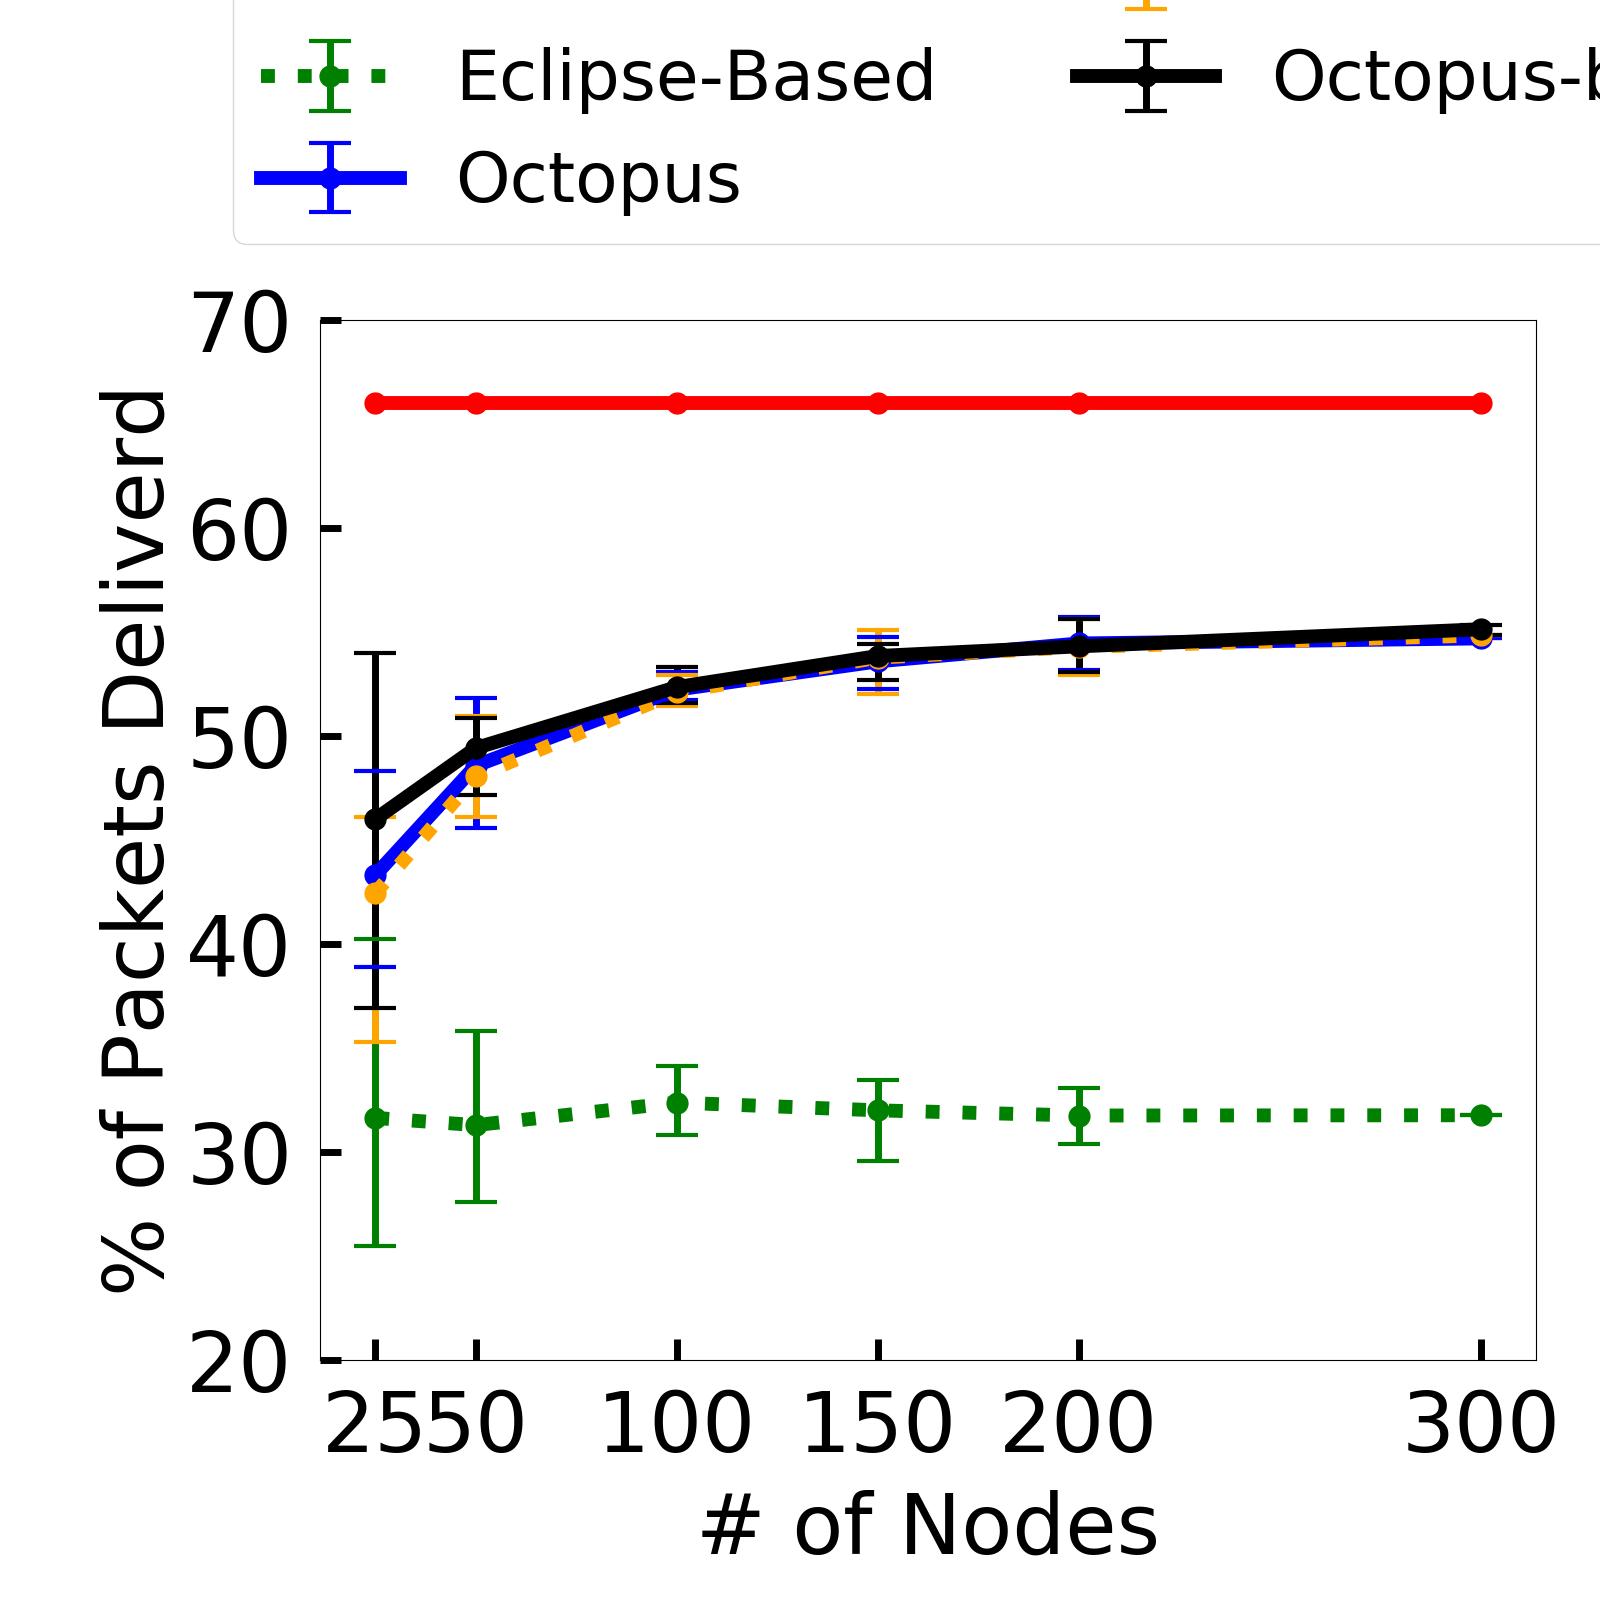
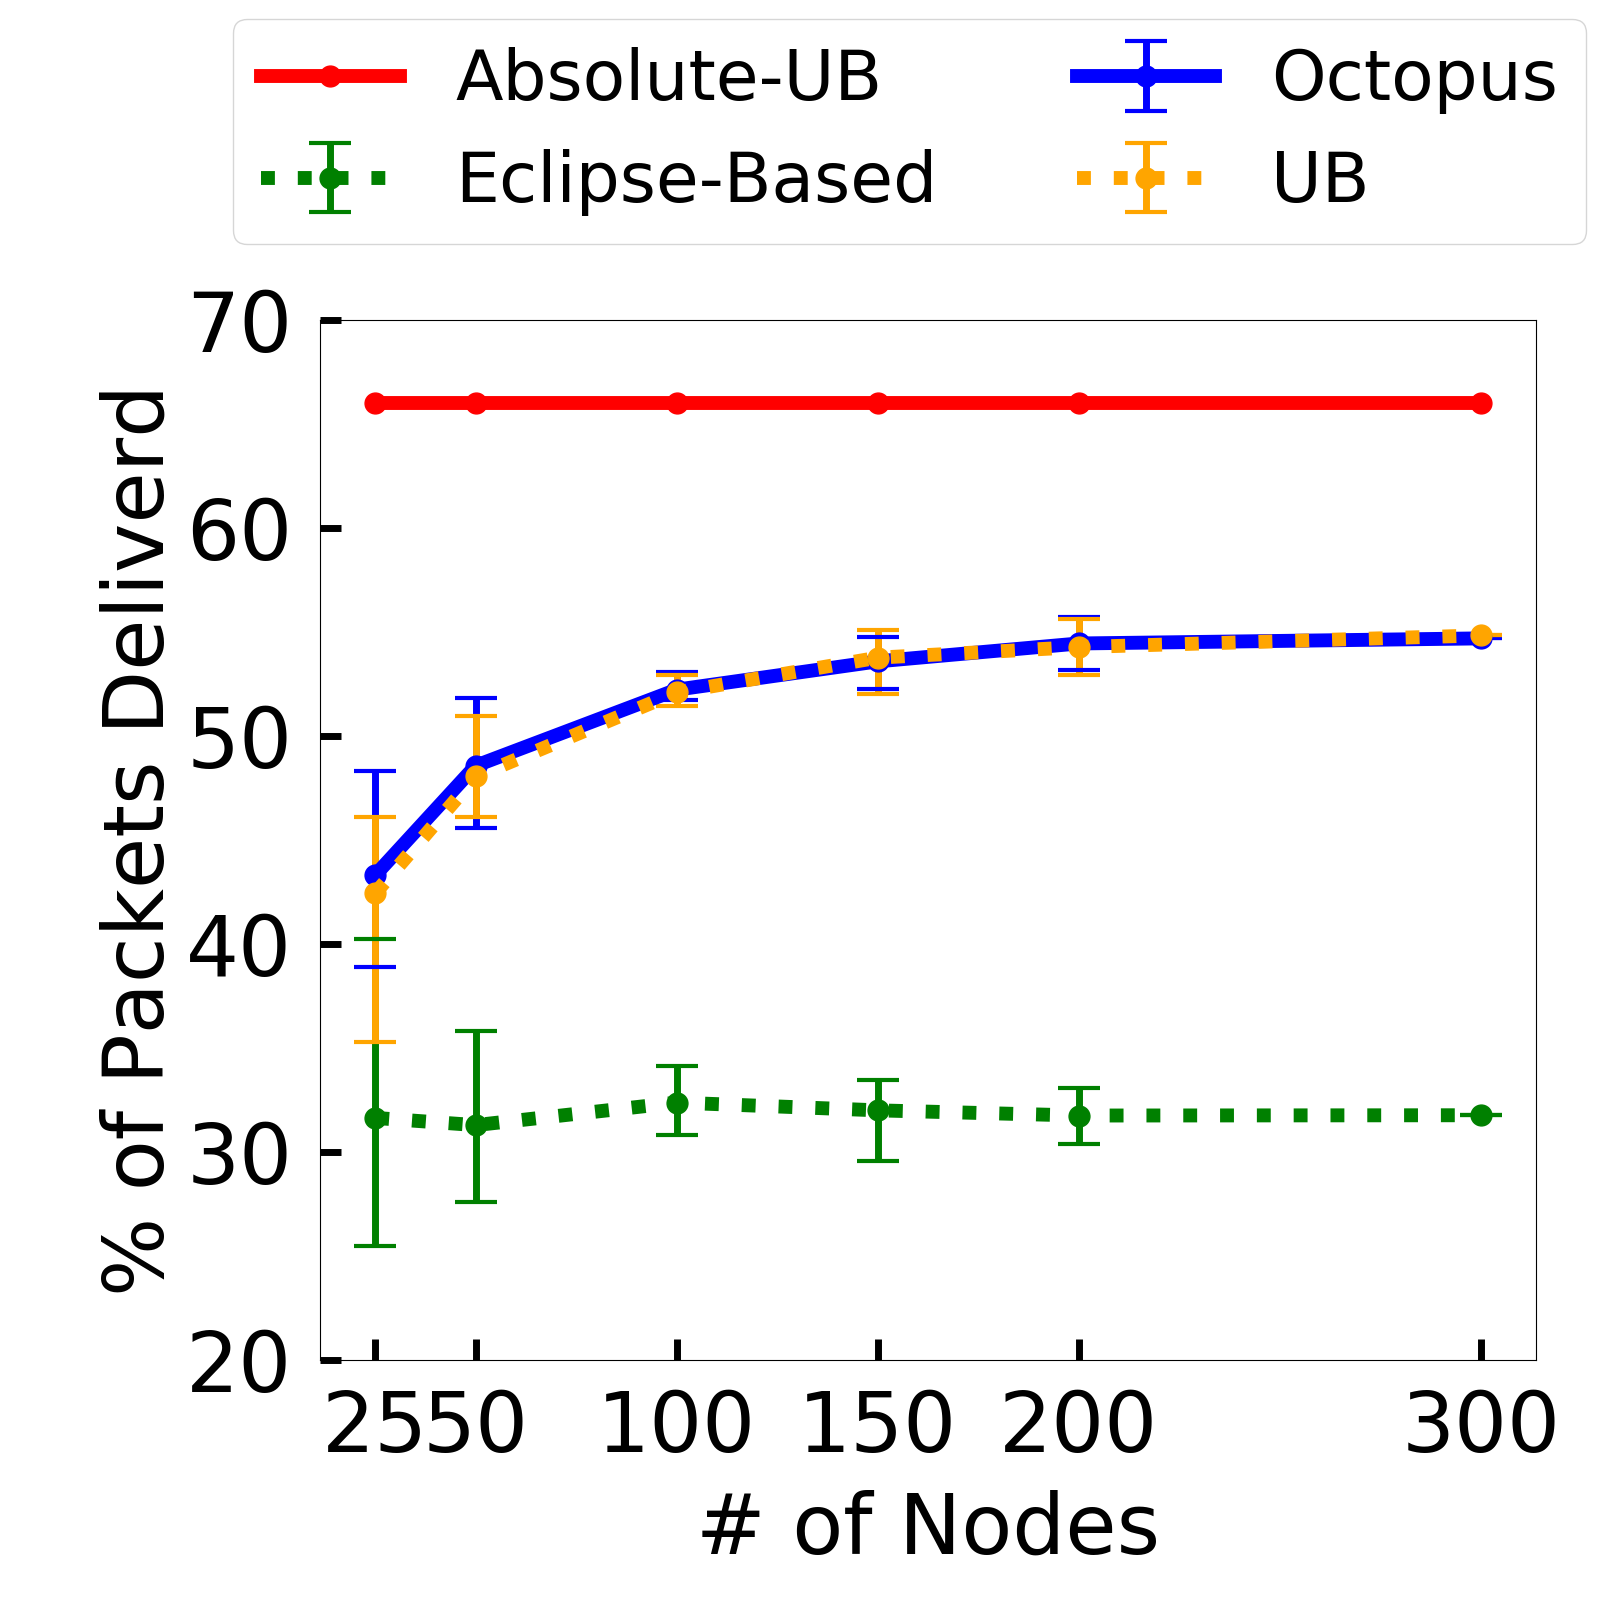
add a new plot

diff --git a/plots.py b/plots.py
@@ -48,10 +48,10 @@ def y_fmt(tick_val, pos):
 
 # _MARKER = ['o',       'h',        's',         '^',             'D',       'P']
 
-METHOD  = ['Octopus', 'Octopus+', 'Octopus-e', 'Octopus-b', 'Eclipse-Based', 'UB',      'Absolute-UB']
-_COLOR  = ['b',       'c',        'gray',      'k',         'g',             'orange',  'r']
-_MARKER = ['o',       'o',        'o',         'o',         'o',             'o',       'o']
-_LINE   = ['-',       ':',        ':',         '-',         ':',             ':',       '-']
+METHOD  = ['Octopus-Random', 'Octopus', 'Octopus+', 'Octopus-e', 'Octopus-B', 'Eclipse-Based', 'UB',      'Absolute-UB']
+_COLOR  = ['b',              'b',       'c',        'gray',      'k',         'g',             'orange',  'r']
+_MARKER = ['o',              'o',       'o',        'o',         'o',         'o',             'o',       'o']
+_LINE   = ['-',              '-',       ':',        ':',         ':',         ':',             ':',       '-']
 COLOR   = dict(zip(METHOD, _COLOR))
 MARKER  = dict(zip(METHOD, _MARKER))
 LINE    = dict(zip(METHOD, _LINE))
@@ -157,9 +157,13 @@ def plot_line(table, methods, filename=None, x_label=None, x_log=False, y_label=
 		yticks = list(range(y_min, y_max, 10))
 		plt.yticks(yticks)
 		y_max = 100 if x_label == 'Average # of hops' else 70
-
+	
+	box_to_anchor = (-0.1, 1.04)
+	if 'Octopus-Random' in methods:
+		box_to_anchor = (-0.24, 1.04)
+	
 	plt.ylim([y_min, y_max])
-	plt.legend(bbox_to_anchor=(-0.1, 1.04), loc='lower left', ncol=2, fontsize=50)
+	plt.legend(bbox_to_anchor=box_to_anchor, loc='lower left', ncol=2, fontsize=50)
 	ax.tick_params(direction='in', length=15, width=5)
 	ax.tick_params(pad=20)
 
@@ -179,8 +183,8 @@ def plot1_1(path):
 	filename = '{}/num_nodes.txt'
 	data = runner.readDataFromFile(filename.format(path))
 
-	methods  = ['eclipse'      , 'octopus-r', 'upper-bound', 'octopus-b']
-	methods_ = ['Eclipse-Based', 'Octopus',   'UB',          'Octopus-b']
+	methods  = ['eclipse'      , 'octopus-r', 'upper-bound']
+	methods_ = ['Eclipse-Based', 'Octopus',   'UB']
 	metric   = ['percent_packets_delivered', 'link_utilization']
 	metric_  = ['% of Packets Deliverd',     'Link Utilization (%)']
 
@@ -205,8 +209,8 @@ def plot1_2(path):
 	filename = '{}/reconfig_delta.txt'
 	data = runner.readDataFromFile(filename.format(path))
 
-	methods  = ['eclipse'      , 'octopus-r', 'upper-bound', 'octopus-b']
-	methods_ = ['Eclipse-Based', 'Octopus',   'UB',          'Octopus-b']
+	methods  = ['eclipse'      , 'octopus-r', 'upper-bound']
+	methods_ = ['Eclipse-Based', 'Octopus',   'UB']
 	metric   = ['percent_packets_delivered', 'link_utilization']
 	metric_  = ['% of Packets Deliverd',     'Link Utilization (%)']
 
@@ -231,8 +235,8 @@ def plot1_3(path):
 	filename = '{}/skewness.txt'
 	data = runner.readDataFromFile(filename.format(path))
 
-	methods  = ['eclipse'      , 'octopus-r', 'upper-bound', 'octopus-b']
-	methods_ = ['Eclipse-Based', 'Octopus',   'UB',          'Octopus-b']
+	methods  = ['eclipse'      , 'octopus-r', 'upper-bound']
+	methods_ = ['Eclipse-Based', 'Octopus',   'UB']
 	metric   = ['percent_packets_delivered', 'link_utilization']
 	metric_  = ['% of Packets Deliverd',     'Link Utilization (%)']
 
@@ -256,8 +260,8 @@ def plot1_4(path):
 	filename = '{}/sparsity.txt'
 	data = runner.readDataFromFile(filename.format(path))
 
-	methods  = ['eclipse'      , 'octopus-r', 'upper-bound', 'octopus-b']
-	methods_ = ['Eclipse-Based', 'Octopus',   'UB',          'Octopus-b']
+	methods  = ['eclipse'      , 'octopus-r', 'upper-bound']
+	methods_ = ['Eclipse-Based', 'Octopus',   'UB']
 	metric   = ['percent_packets_delivered', 'link_utilization']
 	metric_  = ['% of Packets Deliverd',     'Link Utilization (%)']
 
@@ -426,8 +430,8 @@ def plot4(path):
 	filename = '{}/octopus.txt'
 	data = runner.readDataFromFile(filename.format(path))
 
-	methods  = ['octopus-r', 'octopus+']
-	methods_ = ['Octopus',     'Octopus+']
+	methods  = ['octopus-r',      'octopus+']
+	methods_ = ['Octopus-Random', 'Octopus+']
 	metric   = ['percent_packets_delivered']
 	metric_  = ['% of Packets Deliverd']
 
@@ -464,6 +468,28 @@ def plot5(path):
 		plot_line(print_table, methods_, filename='{}/{}-{}'.format(path, metric, 'vary_hop_count'), x_label='Average # of hops', y_label=metric_, absolute_ub=True)
 
 
+def plot_7(path):
+	filenames = ['{}/reconfig_delta.txt']
+	data = sum((runner.readDataFromFile(filename.format(path)) for filename in filenames), [])
+
+	methods  = ['octopus-r', 'octopus-b']
+	methods_ = ['Octopus',   'Octopus-B']
+	metrics   = ['percent_packets_delivered']
+	metrics_  = ['% of Packets Deliverd']
+
+	for metric, metric_ in zip(metrics, metrics_):
+		table = defaultdict(list)
+		for inpt, output_by_method in data:
+			table[(inpt.reconfig_delta)].append({method: getMetric(inpt, output, metric=metric) for method, output in output_by_method.iteritems()})
+		
+		print_table = [[vs] + [reduce_func([(vals_by_method[method] if method in vals_by_method else None) for vals_by_method in list_of_vals_by_method]) for method in methods] for vs, list_of_vals_by_method in sorted(table.iteritems())]
+		print metric
+		print tabulate.tabulate(print_table, headers = ['MIN_ROUTE'] + methods)
+		print ''
+		plot_line(print_table, methods_, filename='{}/{}-{}'.format(path, metric, 'vary_delta-oct_binary'), x_label='Reconfig. Delay (# of slots)', x_log=True, y_label=metric_, absolute_ub=True)
+
+
+
 if __name__ == '__main__':
 	
 	plt.rcParams['font.size'] = 60
@@ -477,11 +503,12 @@ if __name__ == '__main__':
 	# plot1_1(path)  # num of nodes
 	# plot1_2(path)  # reconfig delta
 	# plot1_3(path)  # skewness
-	plot1_4(path)  # sparsity
+	# plot1_4(path)  # sparsity
 	# plot2_1(path)    # real traffic
 	# plot2_2(path)    # real traffic
 	# plot3(path)    # reconfig delta + objective value
 	# plot4(path)    # reconfig delta + octopus+/R
 	# plot5(path)    # average hop count
+	plot_7(path)     # Octopus-B
 
 	# plot2_(path, 'real_traffic-10-merge')    # real traffic
